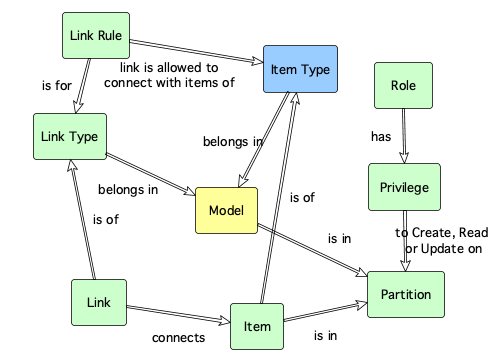
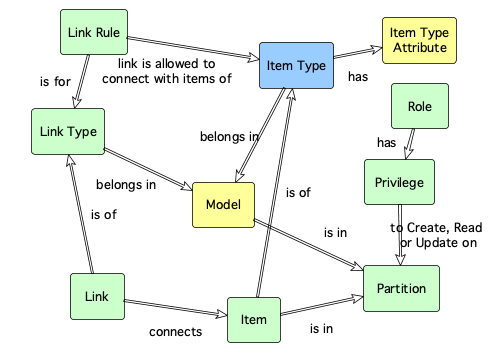
update docs

Changed region(s): [[0.06, 0.0285, 0.99, 0.9972]]

diff --git a/tf_provider/resource_ox_partition.go b/tf_provider/resource_ox_partition.go
@@ -40,25 +40,9 @@ func PartitionResource() *schema.Resource {
 				Type:     schema.TypeString,
 				Optional: true,
 			},
-			"owner": &schema.Schema{
-				Type:     schema.TypeString,
-				Computed: true,
-			},
 			"version": &schema.Schema{
 				Type:     schema.TypeInt,
 				Optional: true,
-			},
-			"created": &schema.Schema{
-				Type:     schema.TypeInt,
-				Computed: true,
-			},
-			"updated": &schema.Schema{
-				Type:     schema.TypeInt,
-				Computed: true,
-			},
-			"changed_by": &schema.Schema{
-				Type:     schema.TypeInt,
-				Computed: true,
 			},
 		},
 	}

diff --git a/tf_provider/data_source_ox_role.go b/tf_provider/data_source_ox_role.go
@@ -46,18 +46,6 @@ func RoleDataSource() *schema.Resource {
 				Type:     schema.TypeInt,
 				Computed: true,
 			},
-			"created": &schema.Schema{
-				Type:     schema.TypeInt,
-				Computed: true,
-			},
-			"updated": &schema.Schema{
-				Type:     schema.TypeInt,
-				Computed: true,
-			},
-			"changed_by": &schema.Schema{
-				Type:     schema.TypeInt,
-				Computed: true,
-			},
 		},
 	}
 }

diff --git a/tf_provider/docs/resources/ox_partition.md b/tf_provider/docs/resources/ox_partition.md
@@ -1,0 +1,43 @@
+# ox_partition Resource <img src="../../../docs/pics/ox.png" width="200" height="200" align="right">
+
+The ox_partition resource, creates, updates or destroys logical partitions.
+
+A logical partition is a special tag which applies to either models (for reference data) and items (for instance data). Once models or items are tagged with a partition, a user role can be granted privilege to create, read or delete information within the partition.
+
+For example, suppose that there are configuration data that is relevant to a part of an organization. A partition can be created to provide role based access control to any data created, updated, read or deleted within the partition.
+
+A partition has no dependencies with any other Onix entity.
+
+## Example usage
+
+```hcl
+resource "ox_partition" "Logistics_Department_Partition" {
+  key         = "Logistics_Department_Partition"
+  name        = "Logistics Department Partition"
+  description = "Partition for resources used by the logistic department."
+  managed     = false
+}
+```
+
+## Argument reference
+
+The following arguments can be passed to a logical partition:
+
+| Name | Use | Type |  Description |
+|---|---|---|---|
+| `key` | *required* | string | *The natural key that uniquely identifies the logical partition.* |
+| `name`| *required* | string | *The display name for the logical partition.* |
+| `description`| *required* | string | *A meaningful description for the logical partition.* |
+| `version` | optional | integer | *The version number of the partition for [optimistic concurrency control](https://en.wikipedia.org/wiki/Optimistic_concurrency_control) purposes. If specified, the entity can be written provided that the specified version number matches the one in the database. If no specified, optimistic locking is disabled.* |
+
+## Key dependencies
+
+A logical partition has no other dependencies.
+
+![Partition](../pics/partition.png)
+
+## Related resources
+
+- [ox_model](ox_model.md) **is in** ox_partition
+- [ox_item](ox_item.md) **is in** ox_partition
+- [ox_privilege](ox_privilege.md) **allows to create, read or delete data in a** ox_partition

diff --git a/tf_provider/docs/resources/ox_role.md b/tf_provider/docs/resources/ox_role.md
@@ -1,0 +1,40 @@
+# ox_role Resource <img src="../../../docs/pics/ox.png" width="200" height="200" align="right">
+
+The ox_role resource, creates, updates or destroys access control roles.
+
+A role is used to attach [privileges](ox_privilege.md) to [logical partitions](ox_partition.md).
+
+When a user logs in the Onix Web API, a role is assigned to the user session after the user is authenticated. The role is passed to the database so that any CRUD operation is approved based on the [privileges](ox_privilege.md) attached to the role.
+
+## Example usage
+
+```hcl
+resource "ox_role" "Logistics_Admin_Role" {
+  key         = "LOGISTICS_ADMIN"
+  name        = "Logistics Department Administrator"
+  description = "Role held by an Administrator of the Logistics Department."
+  level       = 1
+}
+```
+
+## Argument reference
+
+The following arguments can be passed to a role:
+
+| Name | Use | Type |  Description |
+|---|---|---|---|
+| `key` | *required* | string | *The natural key that uniquely identifies the role.* |
+| `name`| *required* | string | *The display name for the role.* |
+| `description`| *required* | string | *A meaningful description for the role.* |
+| `level` | optional | boolean | *The administration level determines the privilege the role has to create, update, read and delete partitions and other roles. The default value is 0. </br> Level 0 roles cannot modify or read neither partitions nor roles data. </br> Level 1 roles can only modify / read partitions or roles data for the ones which are owned by the role.</br> Level 2 roles can modify / read any partition or role data.* |
+| `version` | optional | integer | *The version number of the partition for [optimistic concurrency control](https://en.wikipedia.org/wiki/Optimistic_concurrency_control) purposes. If specified, the entity can be written provided that the specified version number matches the one in the database. If no specified, optimistic locking is disabled.* |
+
+## Key dependencies
+
+A role has no other dependencies.
+
+![Role](../pics/role.png)
+
+## Related resources
+
+- ox_role **has** [ox_privilege](ox_privilege.md)

diff --git a/tf_provider/docs/resources/ox_item_type.md b/tf_provider/docs/resources/ox_item_type.md
@@ -6,6 +6,8 @@ An item type defines the characteristics of a configuration item, such as the at
 
 An item type has to be defined before an item can be created.
 
+Item types can have zero or more [item type attributes](ox_item_type_attribute.md) that define the attributes that the item of this type can have.
+
 ## Example usage
 
 In the example below, three item types are created to represent VPCs, Virtual Servers and a Storage Volumes:
@@ -66,6 +68,7 @@ An item type belongs in a model and therefore, a model should exist first and be
 - ox_item_type **belongs in** [ox_model](ox_model.md)
 - [ox_link_rule](ox_link_rule.md) **link is allowed to connect with items of** ox_item_type
 - [ox_item](ox_item.md) **is of** ox_item_type
+- ox_item_type **has** [ox_item_type_attribute](ox_item_type_attribute.md)(s)
 
 ## Notes
 
